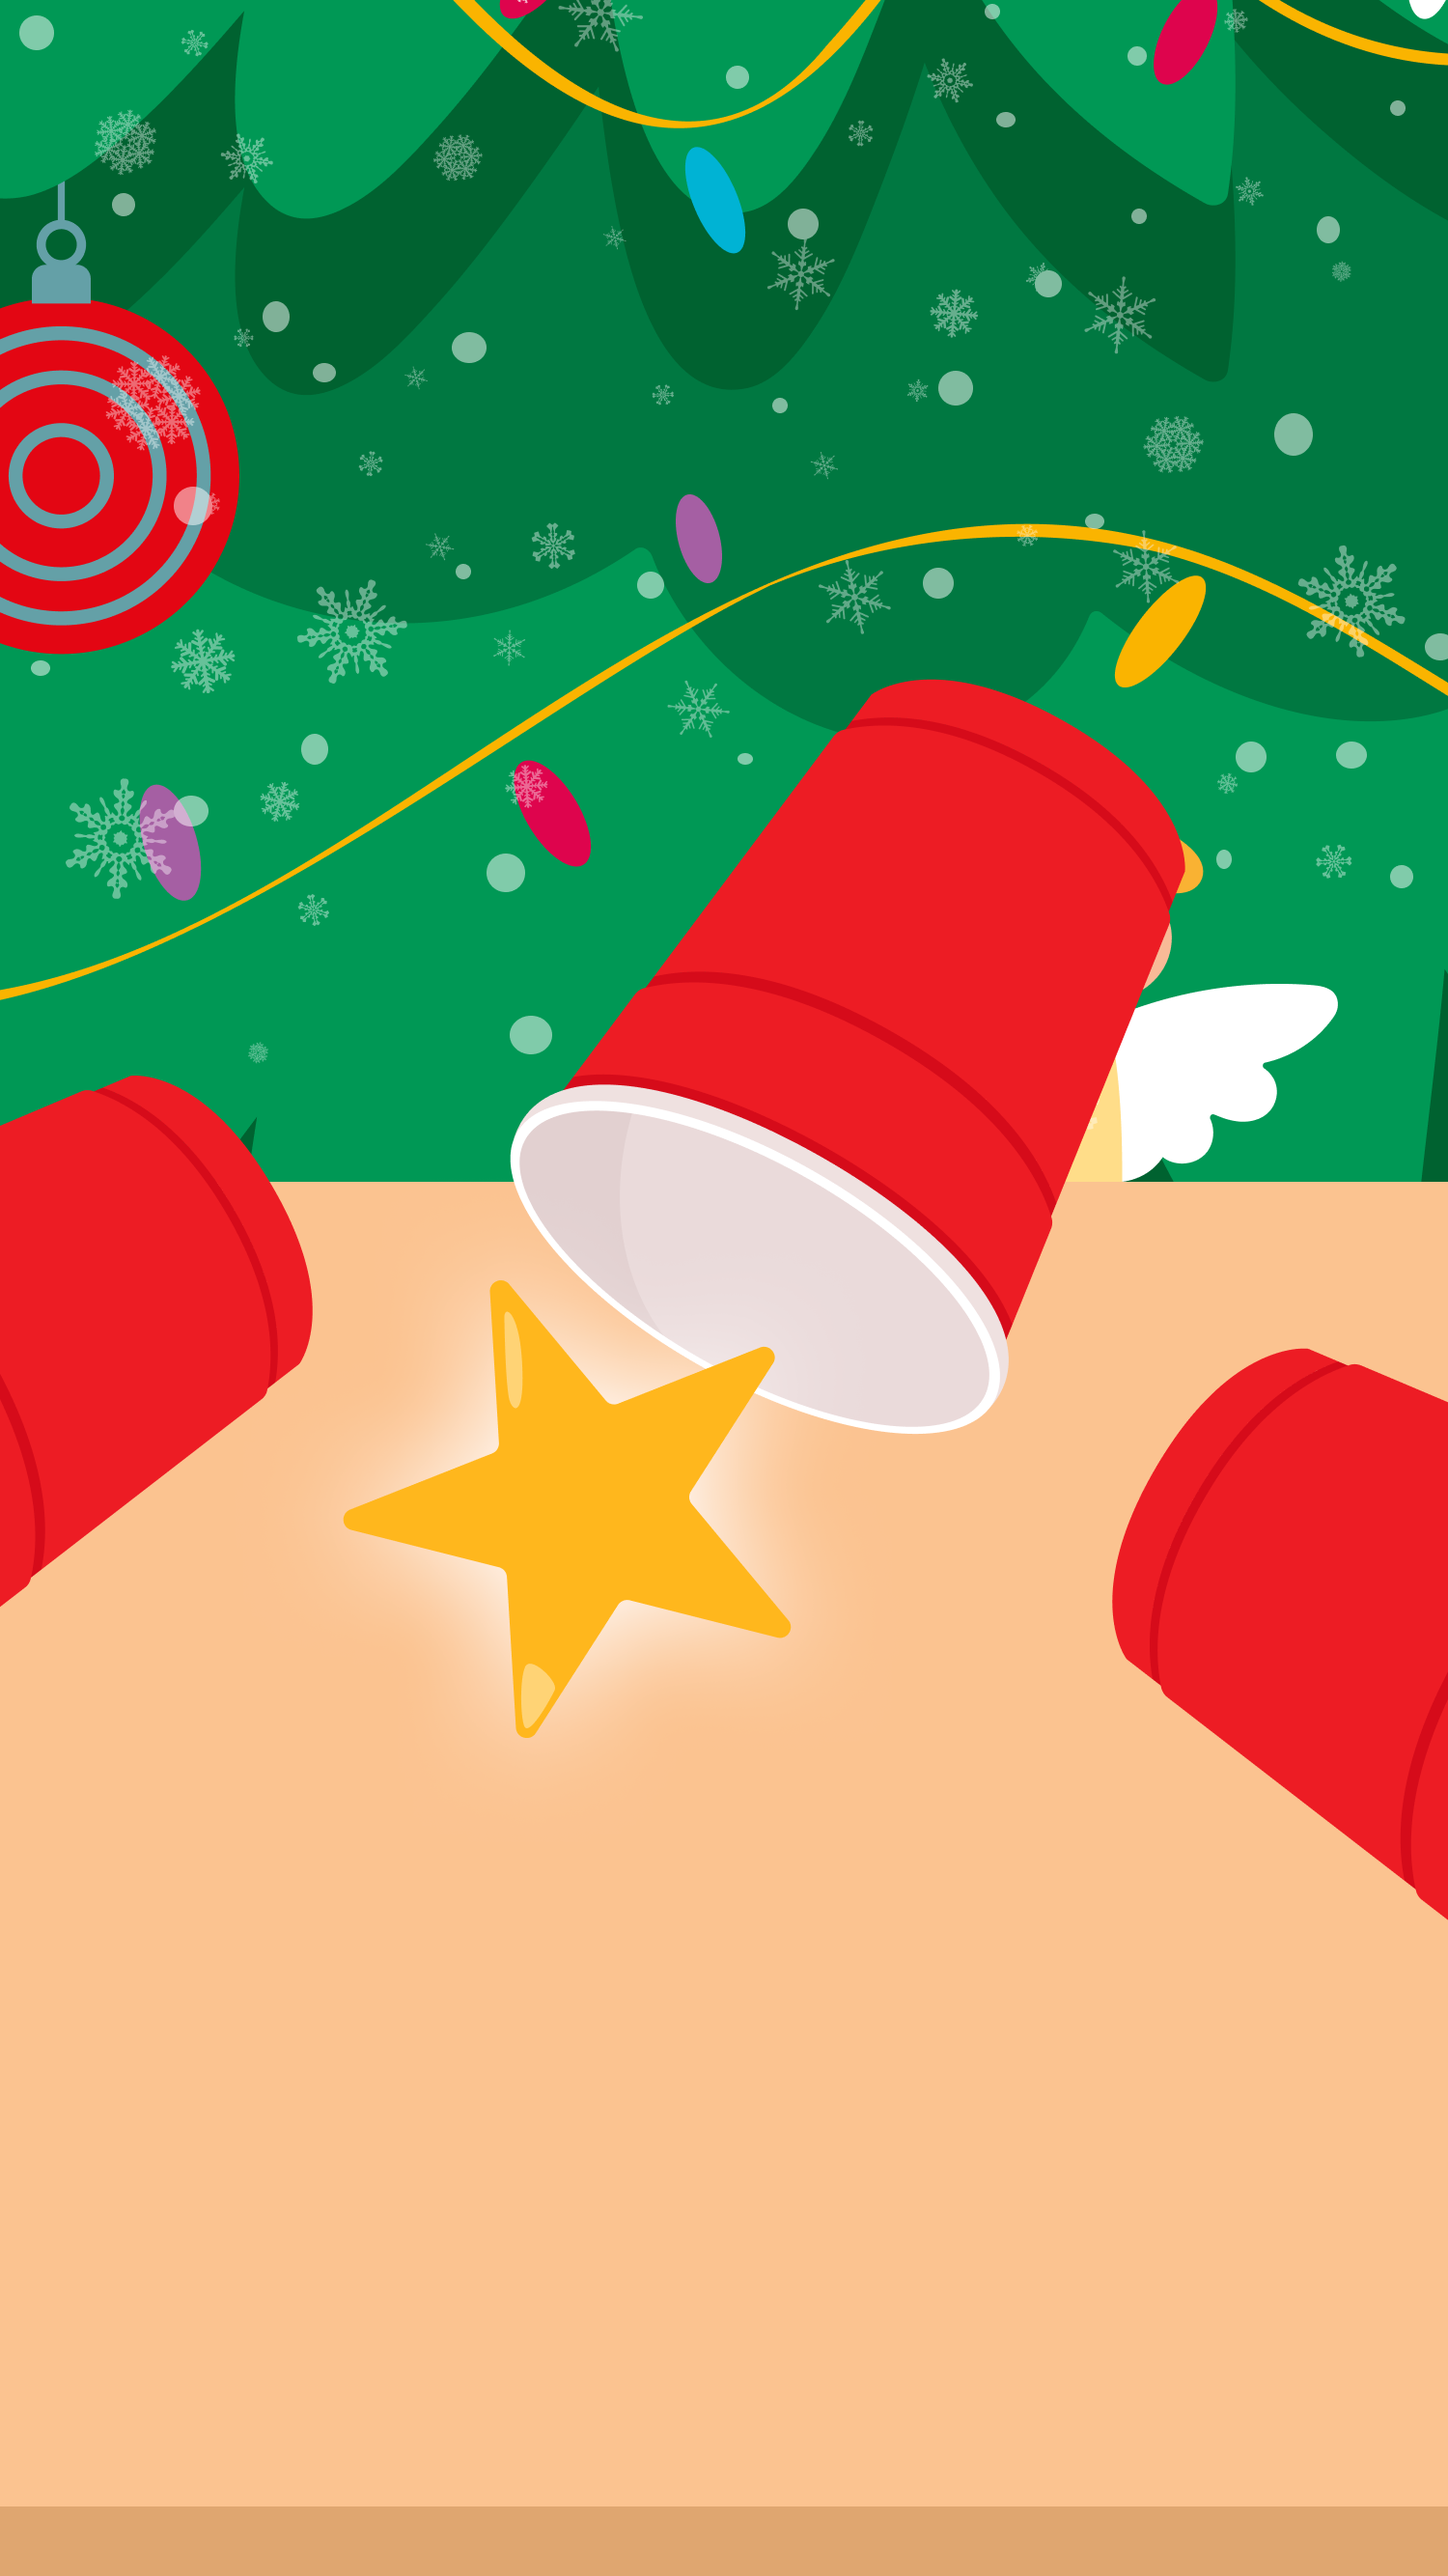
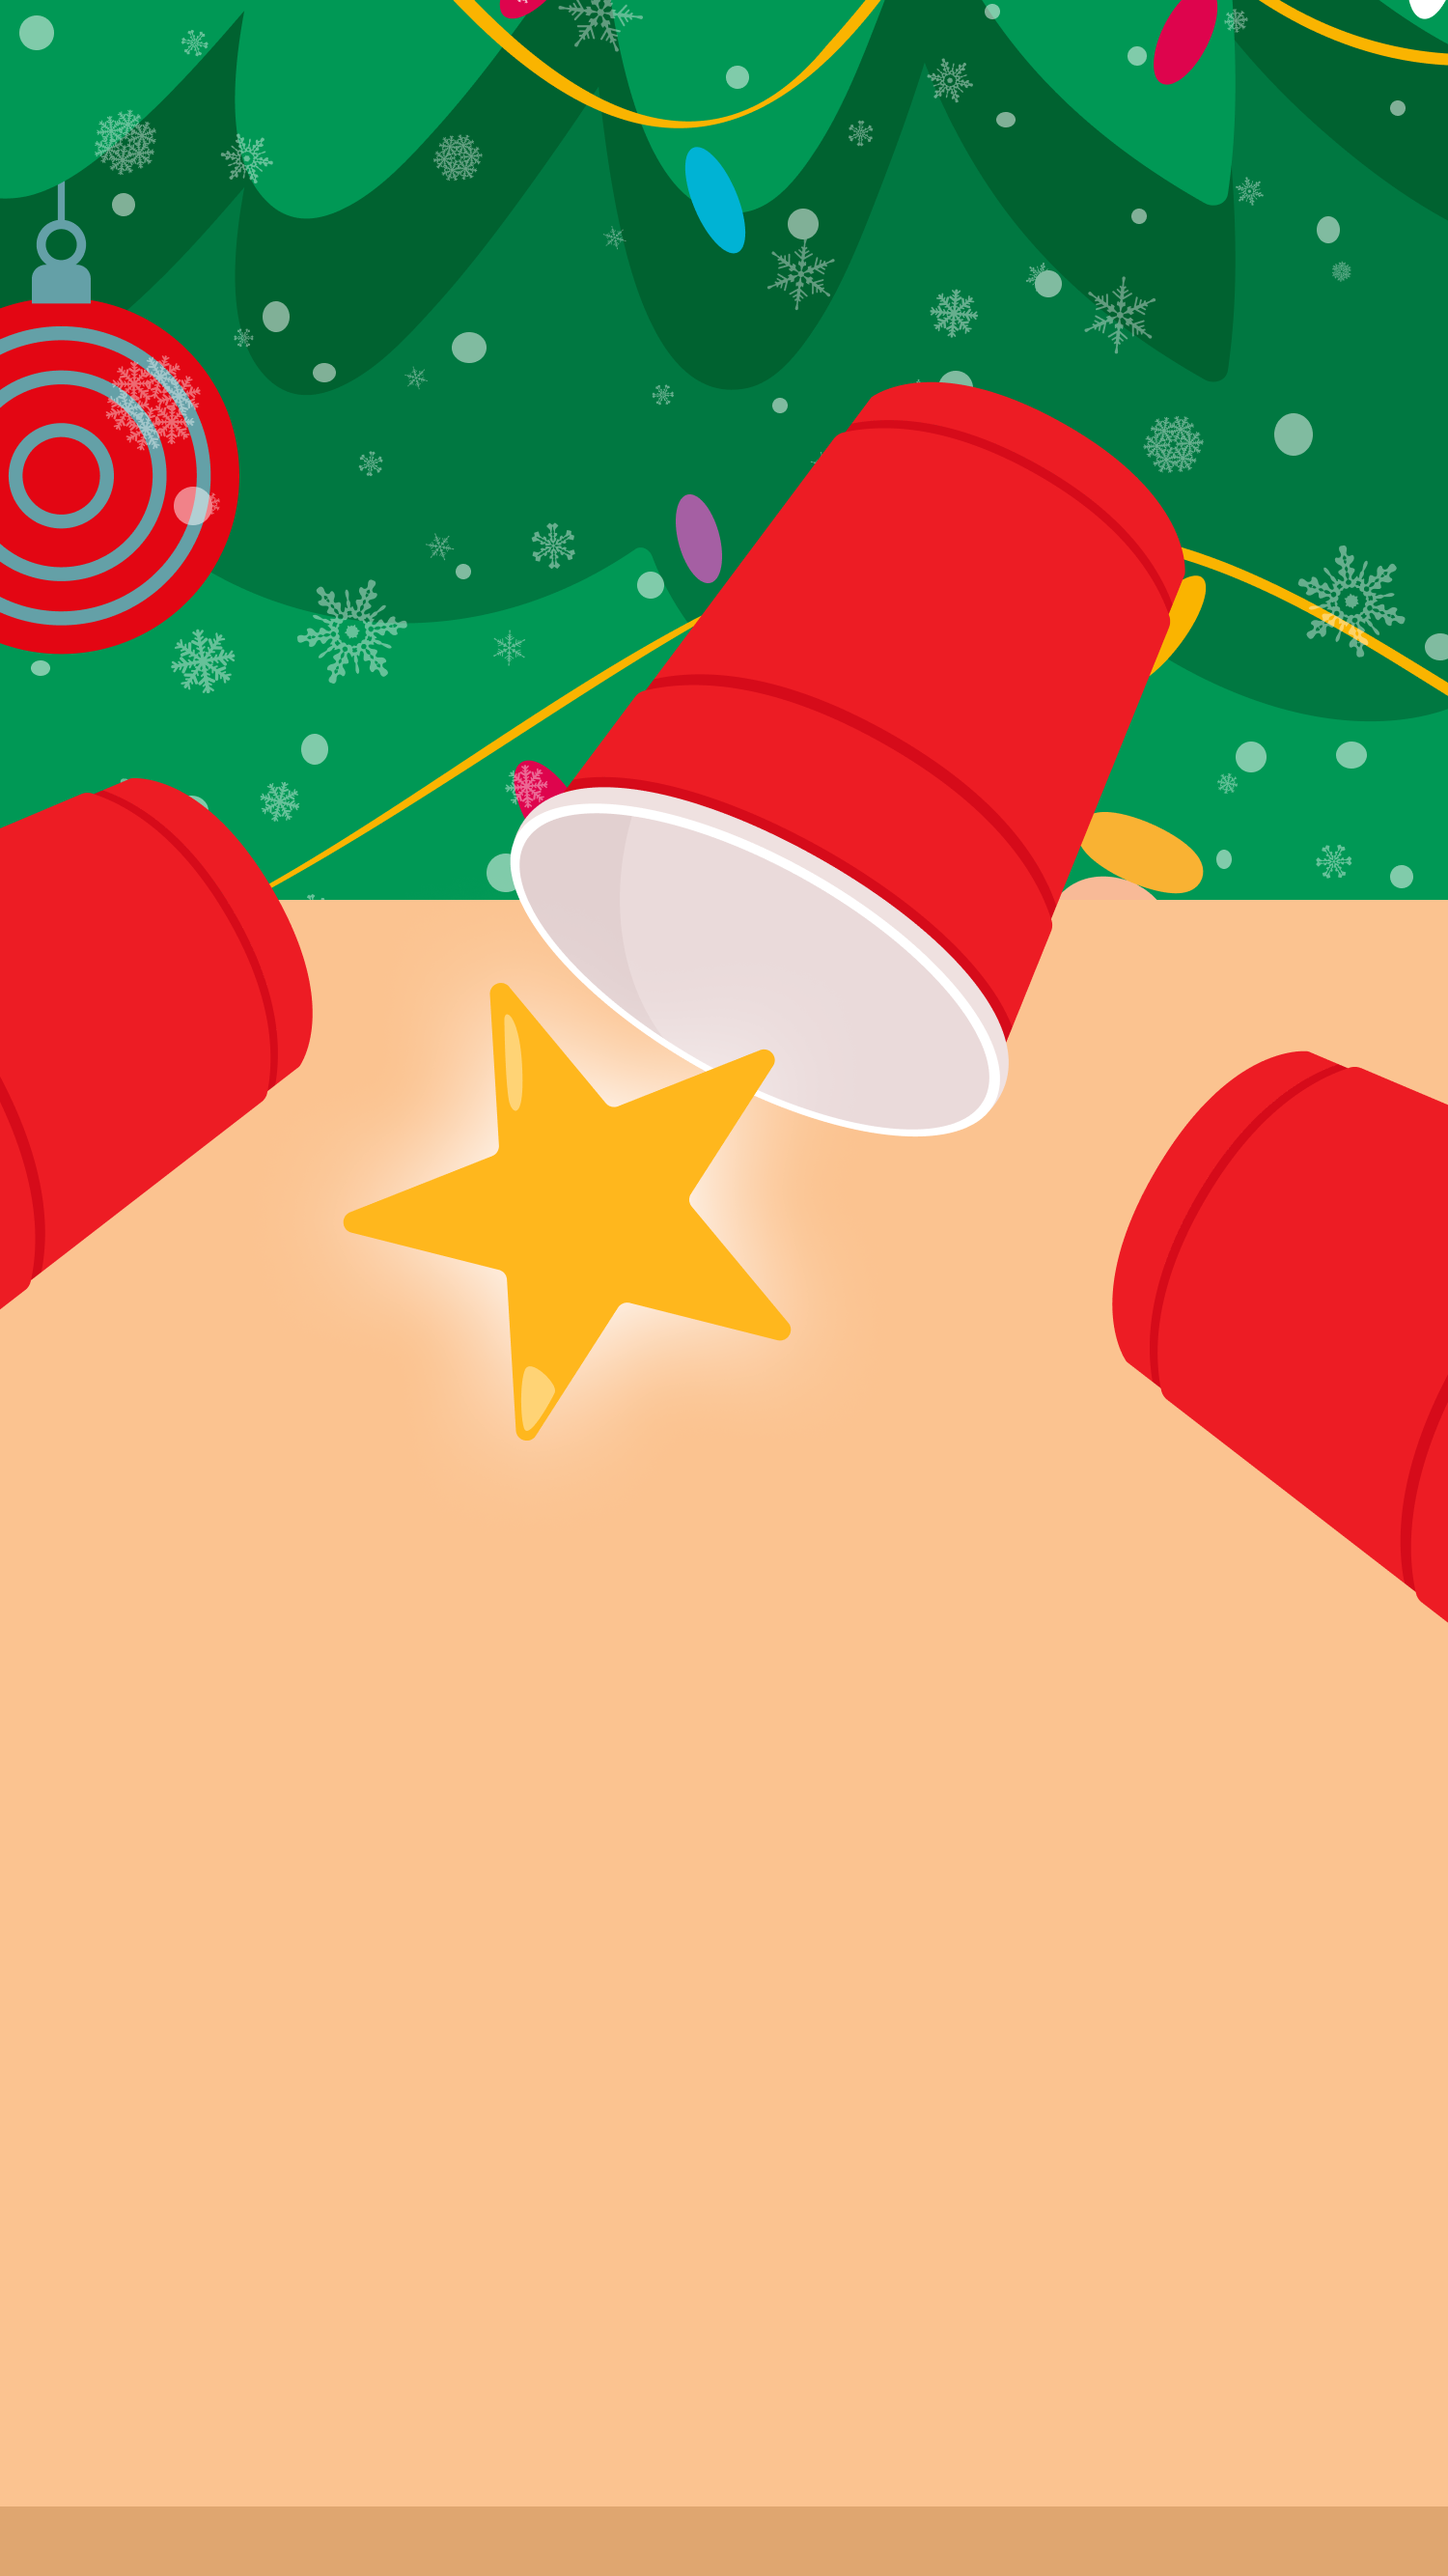
Update

Changed region(s): [[0.0, 0.1244, 1.0, 0.7466]]

diff --git a/style.css b/style.css
@@ -31,10 +31,11 @@ body{
 
 .back{
     position:absolute;
-    top: 35%;
-    height: auto;
+    top: 20%;
+    height: 150px;
     width: 90%;
     padding: 8% 0%;
+    padding-top: 2%;
     background-image: url("./img/helpBackground.png");
     background-size: 100% 100%;
     display: flex;
@@ -60,6 +61,7 @@ body{
 
 .highlight{
     margin: 0px;
+    margin-bottom: -10px;
     font-size: 40px;
     color:white;
 }
@@ -147,7 +149,7 @@ button{
     background-position: center;
 }
 .start{
-    background-position: bottom;
+    background-position: center;
     position: relative;
     justify-content: center;
     background-image: url("./img/startBackground.png");
@@ -155,15 +157,16 @@ button{
 }
 
 .game{
-    background-position: top;
+    background-position: center;
     justify-content: flex-end;
     position: relative;
     background-image: url("./img/gameBackground.png");
 }
 
 .final{
-    justify-content: center;
+    justify-content: top;
     background-image: url("./img/loseBackground.png");
+    background-position: top;
 }
 
 
@@ -248,6 +251,8 @@ button{
 
 .show{
     width: 100%;
+    margin-bottom: -10px;
+
     font-size: 55px;
     margin-top: 40px;
 }
@@ -368,13 +373,13 @@ button{
     }
     .back{
         top: 20%;
-        padding: 8% 0%;
+        height: 300px;
     }
     .highlight{
         font-size: 60px;
     }
     .detail p{
-        font-size: 50px;
+        font-size: 45px;
     }
     .card1,.card2,.card3{
         width:40vmin
@@ -384,11 +389,12 @@ button{
         height: 26vh;
     }
     .instruction{
+        top: 20%;
         font-size: 60px;
         height: 200px;
     }
     .show{
-        margin:0%;
+        margin-top: 120px;
     }
     .additional{
         margin-bottom: 550px;
@@ -402,7 +408,7 @@ button{
     body{
       width: 100%;
     }
-    .start,.game,.game-container, .final{
+    .start,.game,.game-container, .final,.table{
         max-width: 400px;
         margin: 0 auto;
     }
@@ -425,6 +431,9 @@ button{
     }
     .startButton{
         margin-top: 450px;
+    }
+    .show{
+        margin-top: 50px;
     }
     .back{
         top: 20%;

diff --git a/script.js b/script.js
@@ -451,7 +451,7 @@ const matrixGenerator = (cardValues, size = 3) => {
     border = gameContainer.getBoundingClientRect();
 
     if(border.width < 500){
-        offestShow = 250
+        offestShow = 300
         offestP1 = 90
         offestP2 = 54
         offestP3 = 18
@@ -459,7 +459,7 @@ const matrixGenerator = (cardValues, size = 3) => {
         swap = 5
     }
     if(border.width > 500){
-        offestShow = 450
+        offestShow = 600
         offestP1 = 230
         offestP2 = 154
         offestP3 = 86
